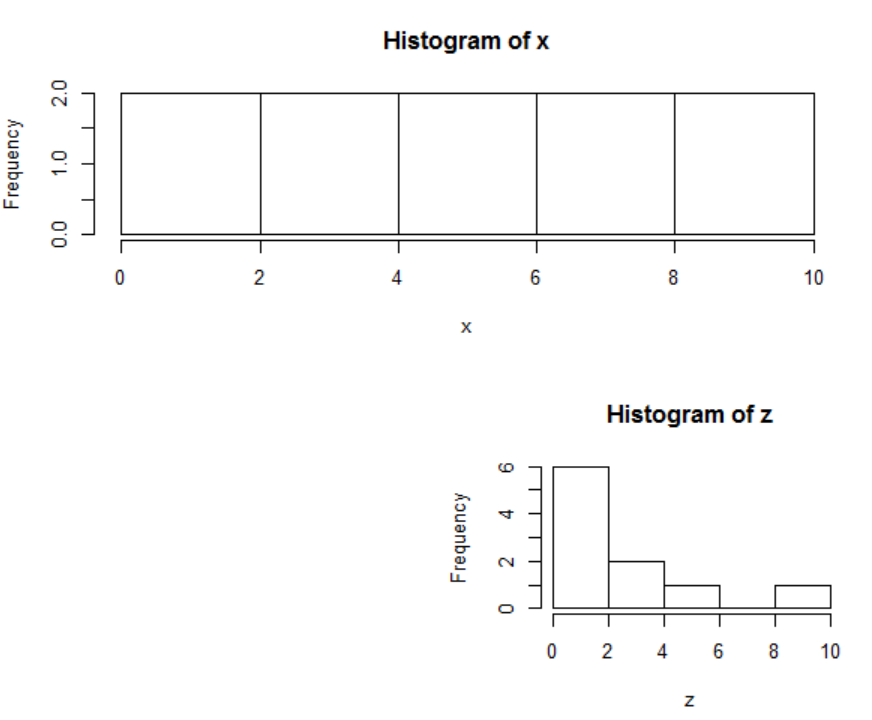
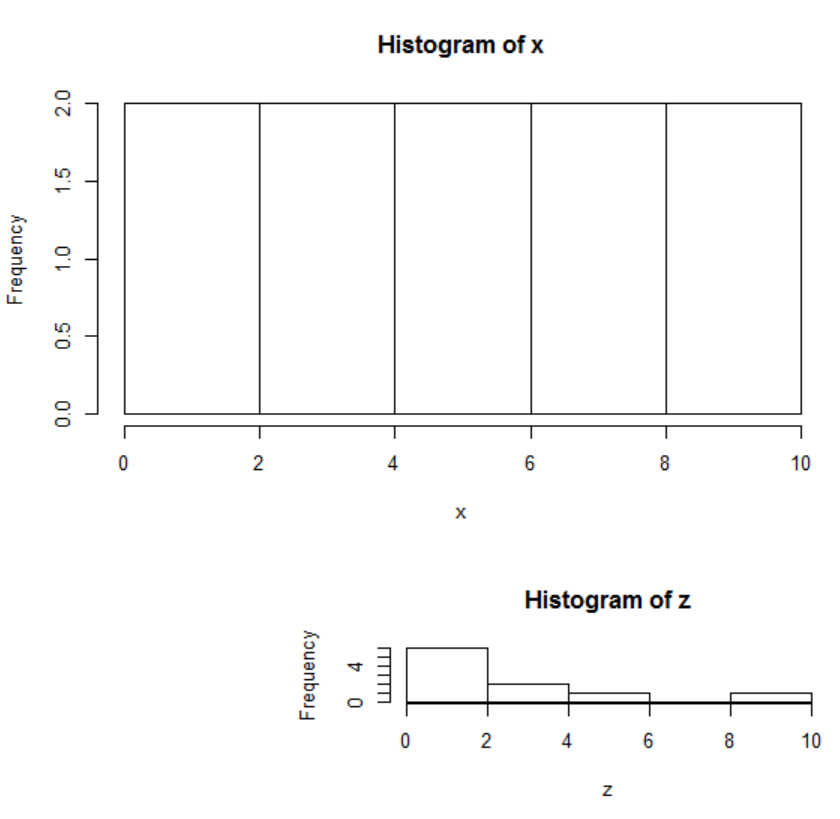
Updates ch2-graphs/text-annotation.md
Auto commit by GitBook Editor

diff --git a/ch2-graphs/combining-graphs.md b/ch2-graphs/combining-graphs.md
@@ -19,11 +19,16 @@
 divide the device into two rows and two columns
 allocate figure 1 all of row 1
 allocate figure 2 the intersection of column 2 and row 2
+the figure in row 1 is twice the height of the figure in row 2
+the figure in bottom-right is twice the width of the figure in the bottom-left
+
+* **width=lcm(5)**: absolute widths in cm
 ```
 > opar <- par(no.readonly=TRUE)
-> layout(matrix(c(1,1,0,2),2,2, byrow=TRUE))
+> layout(matrix(c(1,1,0,2),2,2, byrow=TRUE),widths=c(1,2),height=c(2,1))
 > hist(x)
 > hist(z)
 > par(opar)
 ```
 ![](/ch2-graphs/layout.PNG)
+

diff --git a/ch2-graphs/text-annotation.md b/ch2-graphs/text-annotation.md
@@ -4,10 +4,11 @@
 
 place text within the graph
 **pos**: 1=below, 2=left, 3=above, 4=right
-* **mtext("text to place", side, line=n,...)**
+* **mtext("text to place", side, outer=TRUE/FALSE, line=n,...)**
 
 **side**: 1=bottom, 2=left, 3=top, 4=right
-
+**outer**: outer=TRUE, use ouside margin if available
+**line**: on which margin line, starting at 0 counting outwards
 place text in one of the four magines
 
 ```
